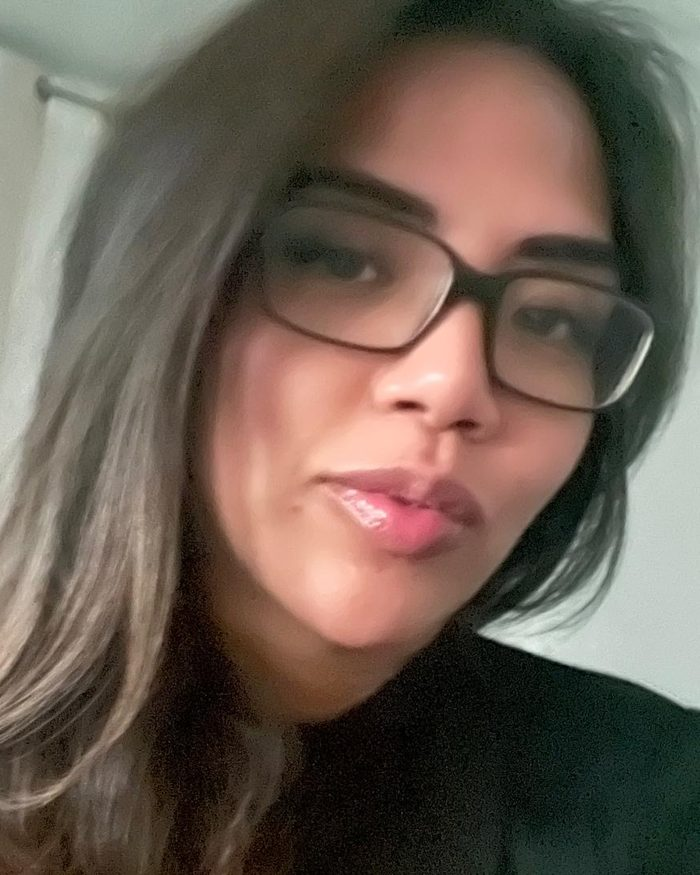
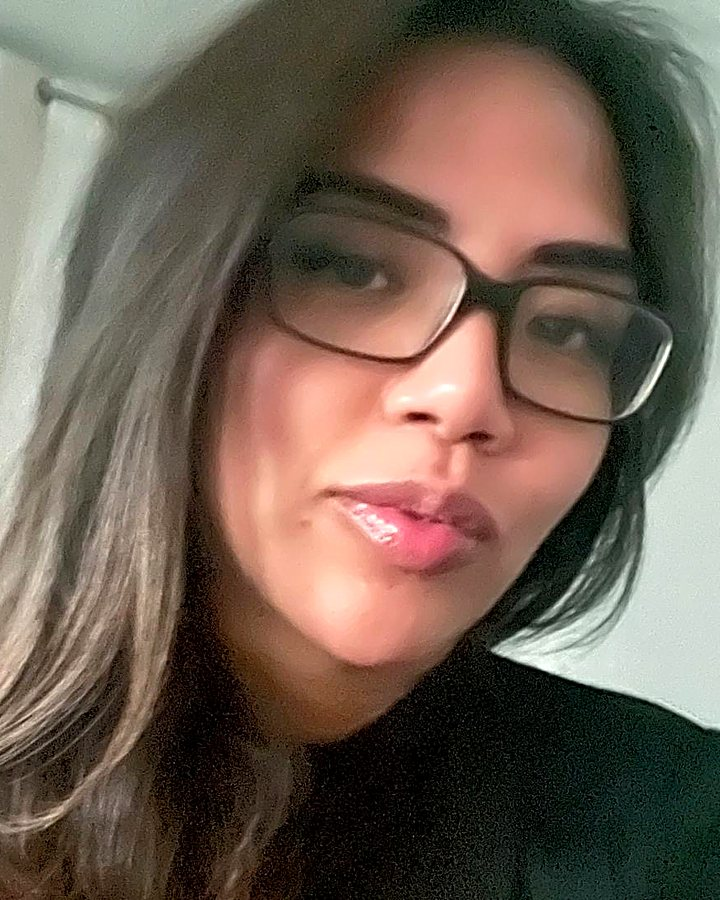
Restyle the doctor photo on the clinic site
Larger rounded portrait with a colour block behind it and the name set over
the photo; the image is lightly sharpened and colour-corrected.

Claude-Session: https://claude.ai/code/session_01TkDJpsSZgpHDjq1EUCMjwL

diff --git a/aesthetics-site/index.html b/aesthetics-site/index.html
@@ -125,10 +125,15 @@ section{padding-block:clamp(56px,8vw,96px);scroll-margin-top:70px}
 .steps p{margin:0;font-size:15px;color:var(--muted)}
 
 /* Doctor */
-.doctor{display:grid;grid-template-columns:minmax(0,280px) 1fr;gap:clamp(28px,5vw,64px);align-items:start}
-.portrait{margin:0;display:grid;gap:10px}
-.portrait img{display:block;width:100%;height:auto;max-width:100%;aspect-ratio:4/5;object-fit:cover;object-position:50% 30%;border-radius:50% 50% 6px 6px;border:4px solid var(--surface);box-shadow:0 0 0 2px var(--heather-soft),0 18px 40px -22px var(--heather);background:var(--surface)}
-.portrait figcaption{font:500 12px/1.4 var(--mono);color:var(--muted)}
+.doctor{display:grid;grid-template-columns:minmax(0,360px) 1fr;gap:clamp(28px,5vw,64px);align-items:start}
+.portrait{margin:0;position:relative;padding:0 18px 18px 0;max-width:100%}
+.portrait::before{content:"";position:absolute;inset:18px 0 0 18px;border-radius:20px;background:linear-gradient(140deg,color-mix(in srgb,var(--heather) 45%,var(--bg)),color-mix(in srgb,var(--blush) 40%,var(--bg)) 65%,color-mix(in srgb,var(--honey) 35%,var(--bg)))}
+.portrait .frame{position:relative;border-radius:18px;overflow:hidden;box-shadow:0 28px 50px -28px color-mix(in srgb,var(--band) 70%,transparent)}
+.portrait img{display:block;width:100%;height:auto;max-width:100%;aspect-ratio:4/5;object-fit:cover;object-position:50% 20%}
+.portrait .frame::after{content:"";position:absolute;inset:0;background:linear-gradient(180deg,transparent 55%,color-mix(in srgb,var(--band) 55%,transparent));pointer-events:none}
+.portrait figcaption{position:absolute;left:18px;bottom:36px;z-index:1;display:grid;gap:2px;color:#fff}
+.portrait figcaption b{font:400 22px/1.1 var(--display)}
+.portrait figcaption span{font:500 11.5px/1.3 var(--mono);letter-spacing:.08em;text-transform:uppercase;opacity:.88}
 .doctor h2{font-size:clamp(32px,4.2vw,48px);margin-block:10px 18px}
 .doctor p{color:var(--muted);max-width:60ch}
 .creds{display:grid;grid-template-columns:repeat(2,1fr);gap:0;margin-top:26px;border-top:1px solid var(--line)}
@@ -200,7 +205,7 @@ footer p{margin:0 0 8px;max-width:70ch}
   .item{grid-template-columns:1fr auto}
   .item p{grid-column:1/-1;grid-row:2}
   .top nav{display:none}
-  .portrait{max-width:240px}
+  .portrait{max-width:320px}
 }
 @media (max-width:600px){
   body{font-size:16px}
@@ -337,7 +342,7 @@ footer p{margin:0 0 8px;max-width:70ch}
 
   <section id="doctor">
     <div class="wrap doctor">
-      <figure class="portrait"><img src="doctor.jpg" width="700" height="875" alt="Dr Lynn Morris, GP and founder of Lumière Clinic"><figcaption>Dr Lynn Morris · GP &amp; founder</figcaption></figure>
+      <figure class="portrait"><div class="frame"><img src="doctor.jpg" width="720" height="900" alt="Dr Lynn Morris, GP and founder of Lumière Clinic"></div><figcaption><b>Dr Lynn Morris</b><span>GP · Founder</span></figcaption></figure>
       <div>
         <div class="label">Your doctor</div>
         <h2>Dr Lynn Morris, GP</h2>
